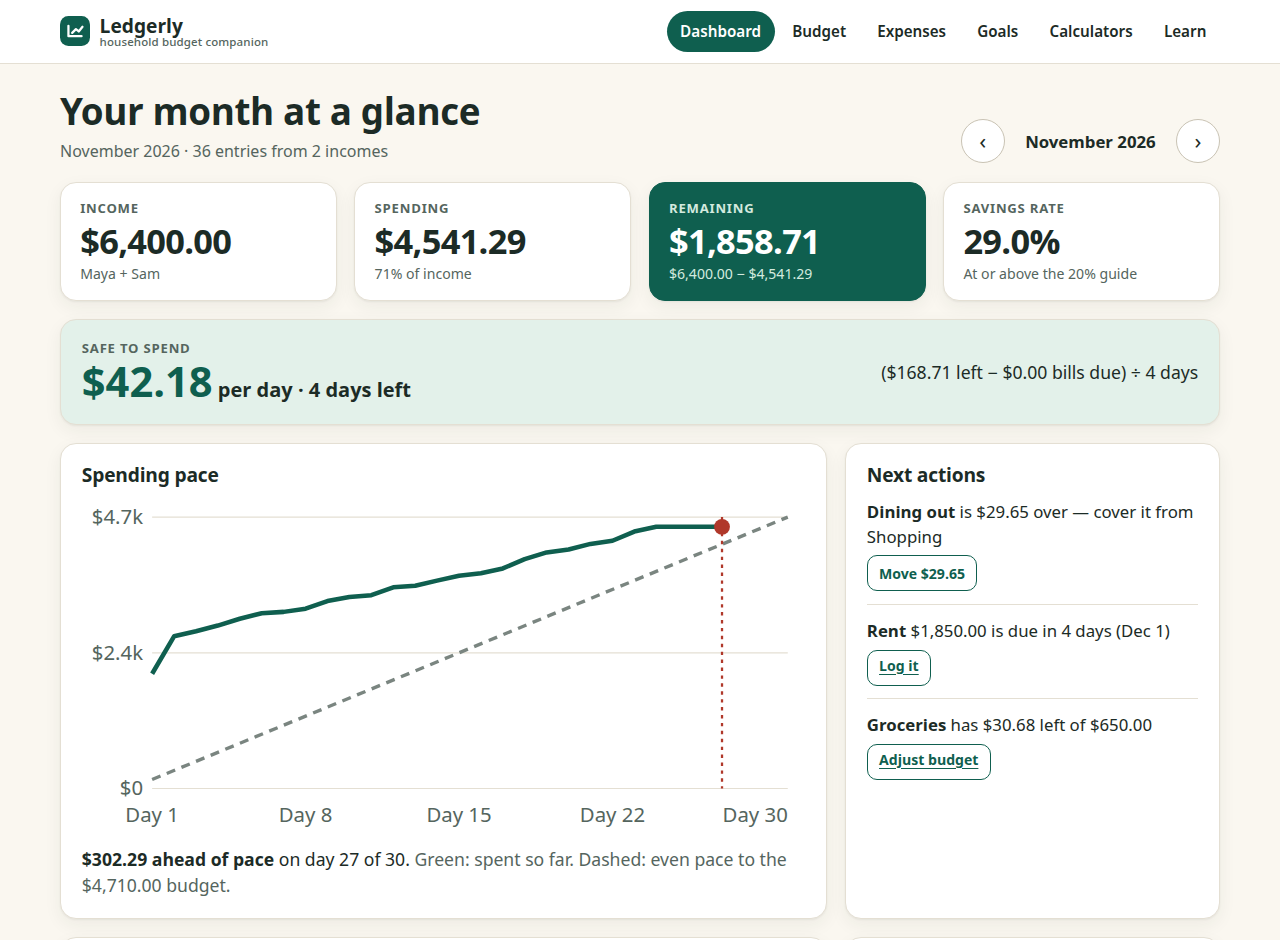
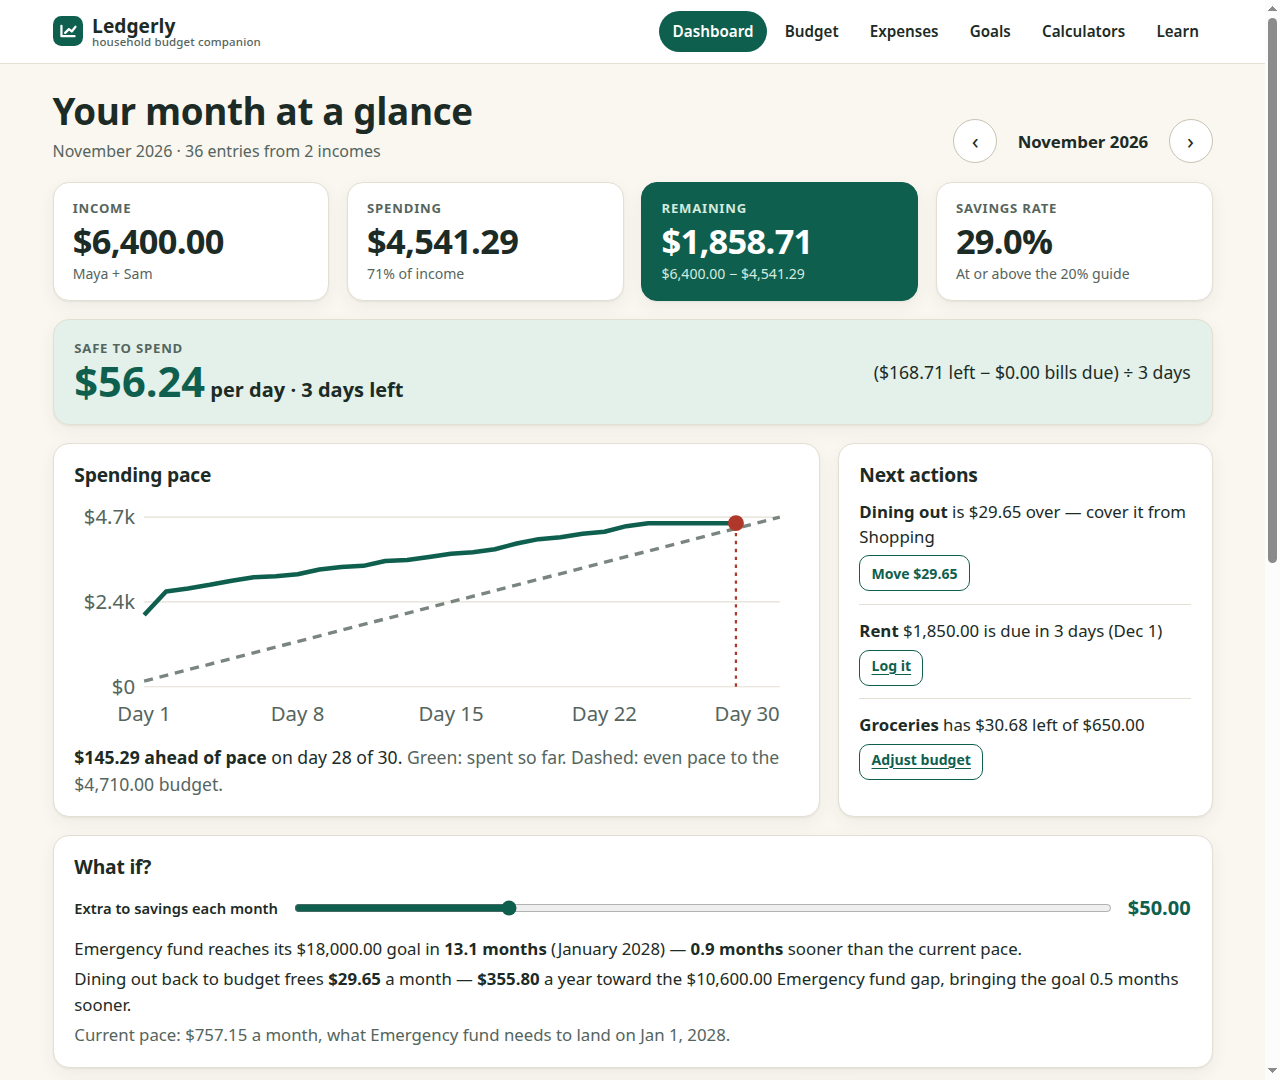
v4: what-if simulator on the dashboard

diff --git a/app/dashboard.js b/app/dashboard.js
@@ -4,7 +4,7 @@ import { summary, upcomingBills } from './budget.js';
 import { categoryChart } from './charts.js';
 import { budgetBar, budgetStatus, monthSwitcher } from './ui.js';
 import { goalCard, goalStatus } from './goals.js';
-import { $, esc, money, moneyShort, percent, monthLabel, dateLabel, daysInMonth, today, monthOf } from './util.js';
+import { $, esc, money, moneyShort, percent, monthLabel, dateLabel, daysInMonth, today, monthOf, addMonths } from './util.js';
 
 
 // Decision devices, all computed from the stored entries, budgets and bills.
@@ -20,7 +20,7 @@ function pace(state, s, key) {
   return { M, D, bills, left, daysLeft, per: Math.max(0, left - bills) / daysLeft, cum, plan, gap };
 }
 function paceChart(p, budget) {
-  const W = 640, H = 300, l = 62, r = 16, t = 16, b = 44, iw = W - l - r, ih = H - t - b;
+  const W = 640, H = 210, l = 62, r = 16, t = 16, b = 44, iw = W - l - r, ih = H - t - b;
   const top = Math.max(budget, ...p.cum), x = (d) => l + (iw * (d - 1)) / (p.M - 1), y = (v) => t + ih * (1 - v / top);
   const line = p.cum.slice(0, p.D).map((v, i) => `${i ? 'L' : 'M'}${x(i + 1).toFixed(1)} ${y(v).toFixed(1)}`).join(' ');
   const grid = [0, .5, 1].map((f) => `<line x1="${l}" x2="${W - r}" y1="${y(top * f)}" y2="${y(top * f)}" stroke="#e4dfd3"/><text x="${l - 8}" y="${y(top * f) + 6}" text-anchor="end" font-size="18" fill="#55655e">${moneyShort(top * f)}</text>`).join('');
@@ -40,14 +40,36 @@ function actions(state, s) {
   });
 }
 
+// What-if layer. The current pace is what the first goal needs each month to land on its date (goalStatus.perMonth).
+// Months are shown to one decimal so a small extra amount still moves the result.
+const monthsToFill = (gap, rate) => (gap <= 0 ? 0 : rate > 0 ? Math.round((gap / rate) * 10) / 10 : null);
+const fmtMonths = (n) => `${n.toFixed(1)} months`;
+function whatIf(state, s, acts) {
+  const goal = state.goals[0];
+  if (!goal) return null;
+  const st = goalStatus(goal), gap = st.remaining, base = st.perMonth, top = acts[0], was = monthsToFill(gap, base);
+  const line = (extra) => {
+    const n = monthsToFill(gap, base + extra);
+    if (gap <= 0) return `${esc(goal.name)} has already reached its ${money(goal.target)} goal.`;
+    if (n === null) return `Add some savings and ${esc(goal.name)} starts moving toward its ${money(goal.target)} goal.`;
+    return `${esc(goal.name)} reaches its ${money(goal.target)} goal in <strong>${fmtMonths(n)}</strong> (${monthLabel(addMonths(monthOf(today()), Math.ceil(n)))})${was === null ? '' : ` — <strong>${fmtMonths(Math.round((was - n) * 10) / 10)}</strong> sooner than the current pace`}.`;
+  };
+  const habit = top && gap > 0 ? (() => {
+    const n = monthsToFill(gap, base + top.o.over);
+    return `${esc(top.o.c.name)} back to budget frees <strong>${money(top.o.over)}</strong> a month — <strong>${money(top.o.over * 12)}</strong> a year toward the ${money(gap)} ${esc(goal.name)} gap${n !== null && was !== null && was > n ? `, bringing the goal ${fmtMonths(Math.round((was - n) * 10) / 10)} sooner` : ''}.`;
+  })() : '';
+  return { base, line, habit, goal };
+}
+
 export function render(main) {
+  let extra = 5000;
   main.innerHTML = '<div class="page-head row"><div><h1>Your month at a glance</h1><p class="lede" id="dash-lede"></p></div><div id="dash-month"></div></div><div id="dash-body"></div>';
   const draw = () => {
     const state = get(), key = getMonth(), s = summary(state, key);
     $('#dash-lede', main).textContent = `${monthLabel(key)} · ${s.entries.length} entries from ${state.income.length} incomes`;
     const bills = upcomingBills(state);
     const goal = state.goals[0];
-    const p = pace(state, s, key), acts = actions(state, s), bill = bills[0];
+    const p = pace(state, s, key), acts = actions(state, s), bill = bills[0], wi = whatIf(state, s, acts);
     const tight = CATEGORIES.map((c) => ({ c, left: (state.budgets[c.id] ?? 0) - s.byCat[c.id], b: state.budgets[c.id] ?? 0 })).filter((r) => r.b && r.left > 0 && r.left / r.b < 0.2).sort((a, b) => a.left / a.b - b.left / b.b)[0];
     const more = [bill && `<li><span><strong>${esc(bill.name)}</strong> ${money(bill.cents)} is due ${bill.inDays === 0 ? 'today' : `in ${bill.inDays} ${bill.inDays === 1 ? 'day' : 'days'}`} (${dateLabel(bill.date)})</span><a class="btn small" href="tracker.html">Log it</a></li>`, tight && `<li><span><strong>${esc(tight.c.name)}</strong> has ${money(tight.left)} left of ${money(tight.b)}</span><a class="btn small" href="planner.html">Adjust budget</a></li>`].filter(Boolean).slice(0, 3 - acts.length);
     const rows = CATEGORIES.map((c) => ({ c, spent: s.byCat[c.id], budget: state.budgets[c.id] ?? 0 }));
@@ -58,7 +80,7 @@ export function render(main) {
         <div class="kpi accent"><span class="kpi-label">Remaining</span><span class="kpi-value ${s.remaining < 0 ? 'neg' : ''}">${money(s.remaining)}</span><span class="kpi-sub">${money(s.income)} − ${money(s.spent)}</span></div>
         <div class="kpi"><span class="kpi-label">Savings rate</span><span class="kpi-value">${percent(s.savingsRate)}</span><span class="kpi-sub">${s.savingsRate >= 0.2 ? 'At or above the 20% guide' : 'Below the 20% guide'}</span></div>
       </section>
-      <style>.strip { display: flex; justify-content: space-between; align-items: center; gap: 1rem; flex-wrap: wrap; margin-top: 1.1rem; background: var(--accent-soft); }.strip-fig { font-size: 2.6rem; line-height: 1.1; color: var(--accent); }.strip-unit { font-size: 1.25rem; font-weight: 650; }.strip div > span { display: block; } .strip div > .strip-unit { display: inline; }.strip-math { margin: 0; font-size: 1.1rem; }.pace-row { margin-top: 1.1rem; } .pace-svg { width: 100%; height: auto; display: block; }.verdict { margin: .5rem 0 0; font-size: 1.1rem; }.acts { list-style: none; margin: 0; padding: 0; display: grid; gap: .8rem; }.acts li { display: grid; gap: .4rem; justify-items: start; padding-bottom: .8rem; border-bottom: 1px solid var(--line); font-size: 1.05rem; }.acts li:last-child { border: 0; }</style>
+      <style>.strip { display: flex; justify-content: space-between; align-items: center; gap: 1rem; flex-wrap: wrap; margin-top: 1.1rem; background: var(--accent-soft); }.strip-fig { font-size: 2.6rem; line-height: 1.1; color: var(--accent); }.strip-unit { font-size: 1.25rem; font-weight: 650; }.strip div > span { display: block; } .strip div > .strip-unit { display: inline; }.strip-math { margin: 0; font-size: 1.1rem; }.pace-row { margin-top: 1.1rem; } .pace-svg { width: 100%; height: auto; display: block; }.verdict { margin: .5rem 0 0; font-size: 1.1rem; }.acts { list-style: none; margin: 0; padding: 0; display: grid; gap: .8rem; }.acts li { display: grid; gap: .4rem; justify-items: start; padding-bottom: .8rem; border-bottom: 1px solid var(--line); font-size: 1.05rem; }.acts li:last-child { border: 0; }.whatif { margin-top: 1.1rem; }.whatif h2 { margin-bottom: .5rem; }.wi-row { display: flex; flex-wrap: wrap; align-items: center; gap: .5rem 1rem; font-weight: 650; }.wi-row output { margin-left: auto; font-size: 1.25rem; color: var(--accent); }.wi-row input { flex: 1 1 12rem; min-width: 0; margin: 0; accent-color: var(--accent); }.whatif p { margin: .35rem 0 0; font-size: 1.05rem; }</style>
       <section class="card strip" aria-label="Safe to spend"><div><span class="kpi-label">Safe to spend</span><strong class="strip-fig">${money(p.per)}</strong><span class="strip-unit"> per day · ${p.daysLeft} days left</span></div>
         <p class="strip-math">(${money(Math.max(0, p.left))} left − ${money(p.bills)} bills due) ÷ ${p.daysLeft} days</p></section>
       <div class="dash-grid pace-row">
@@ -66,6 +88,8 @@ export function render(main) {
         <p class="verdict"><strong>${Math.abs(p.gap) < 100 ? 'On pace' : `${money(Math.abs(p.gap))} ${p.gap > 0 ? 'ahead of' : 'behind'} pace`}</strong> on day ${p.D} of ${p.M}. <span class="muted">Green: spent so far. Dashed: even pace to the ${money(s.budgetTotal)} budget.</span></p></section>
       <section class="card"><h2>Next actions</h2>${acts.length + more.length ? `<ul class="acts">${acts.map((a, i) => `<li><span><strong>${esc(a.o.c.name)}</strong> is ${money(a.o.over)} over${a.from ? ` — cover ${a.amt < a.o.over ? `${money(a.amt)} of it ` : 'it '}from ${esc(a.from.c.name)}` : ''}</span>${a.from ? `<button class="btn small" data-act="${i}">Move ${money(a.amt)}</button>` : ''}</li>`).join('')}${more.join('')}</ul>` : '<p class="empty">Every category is within budget. Nothing to move.</p>'}</section>
       </div>
+      <section class="card whatif" aria-label="What if"><h2>What if?</h2>${wi ? `<div class="wi-row"><label for="wi-extra">Extra to savings each month</label><input id="wi-extra" type="range" min="0" max="20000" step="500" value="${extra}"><output id="wi-out" for="wi-extra">${money(extra)}</output></div>
+        <p id="wi-line" aria-live="polite">${wi.line(extra)}</p>${wi.habit ? `<p id="wi-habit">${wi.habit}</p>` : ''}<p class="muted" id="wi-base">Current pace: ${money(wi.base)} a month, what ${esc(wi.goal.name)} needs to land on ${dateLabel(wi.goal.date, true)}.</p>` : '<p class="empty">Add a savings goal to try what-if numbers.</p>'}</section>
       <div class="dash-grid">
         <section class="card span-2"><h2>Where the money went</h2>${categoryChart(s.byCat, { bars: false })}</section>
         <section class="card"><h2>Next bills due</h2>
@@ -77,6 +101,12 @@ export function render(main) {
           ${state.goals.length > 1 ? `<ul class="goal-mini" aria-label="Other goals">${state.goals.slice(1).map((g) => { const st = goalStatus(g); return `<li><span>${esc(g.name)}</span><span class="muted">${money(g.saved)} of ${money(g.target)}</span><span class="progress thin"><span style="width:${(st.progress * 100).toFixed(1)}%"></span></span></li>`; }).join('')}</ul>` : ''}</section>
       </div>`;
   };
+  main.addEventListener('input', (e) => {
+    if (e.target.id !== 'wi-extra') return;
+    const state = get(), wi = whatIf(state, summary(state, getMonth()), actions(state, summary(state, getMonth())));
+    extra = Number(e.target.value);
+    $('#wi-out', main).textContent = money(extra); $('#wi-line', main).innerHTML = wi.line(extra);
+  });
   main.addEventListener('click', (e) => {
     const b = e.target.closest('[data-act]');
     if (!b) return;
